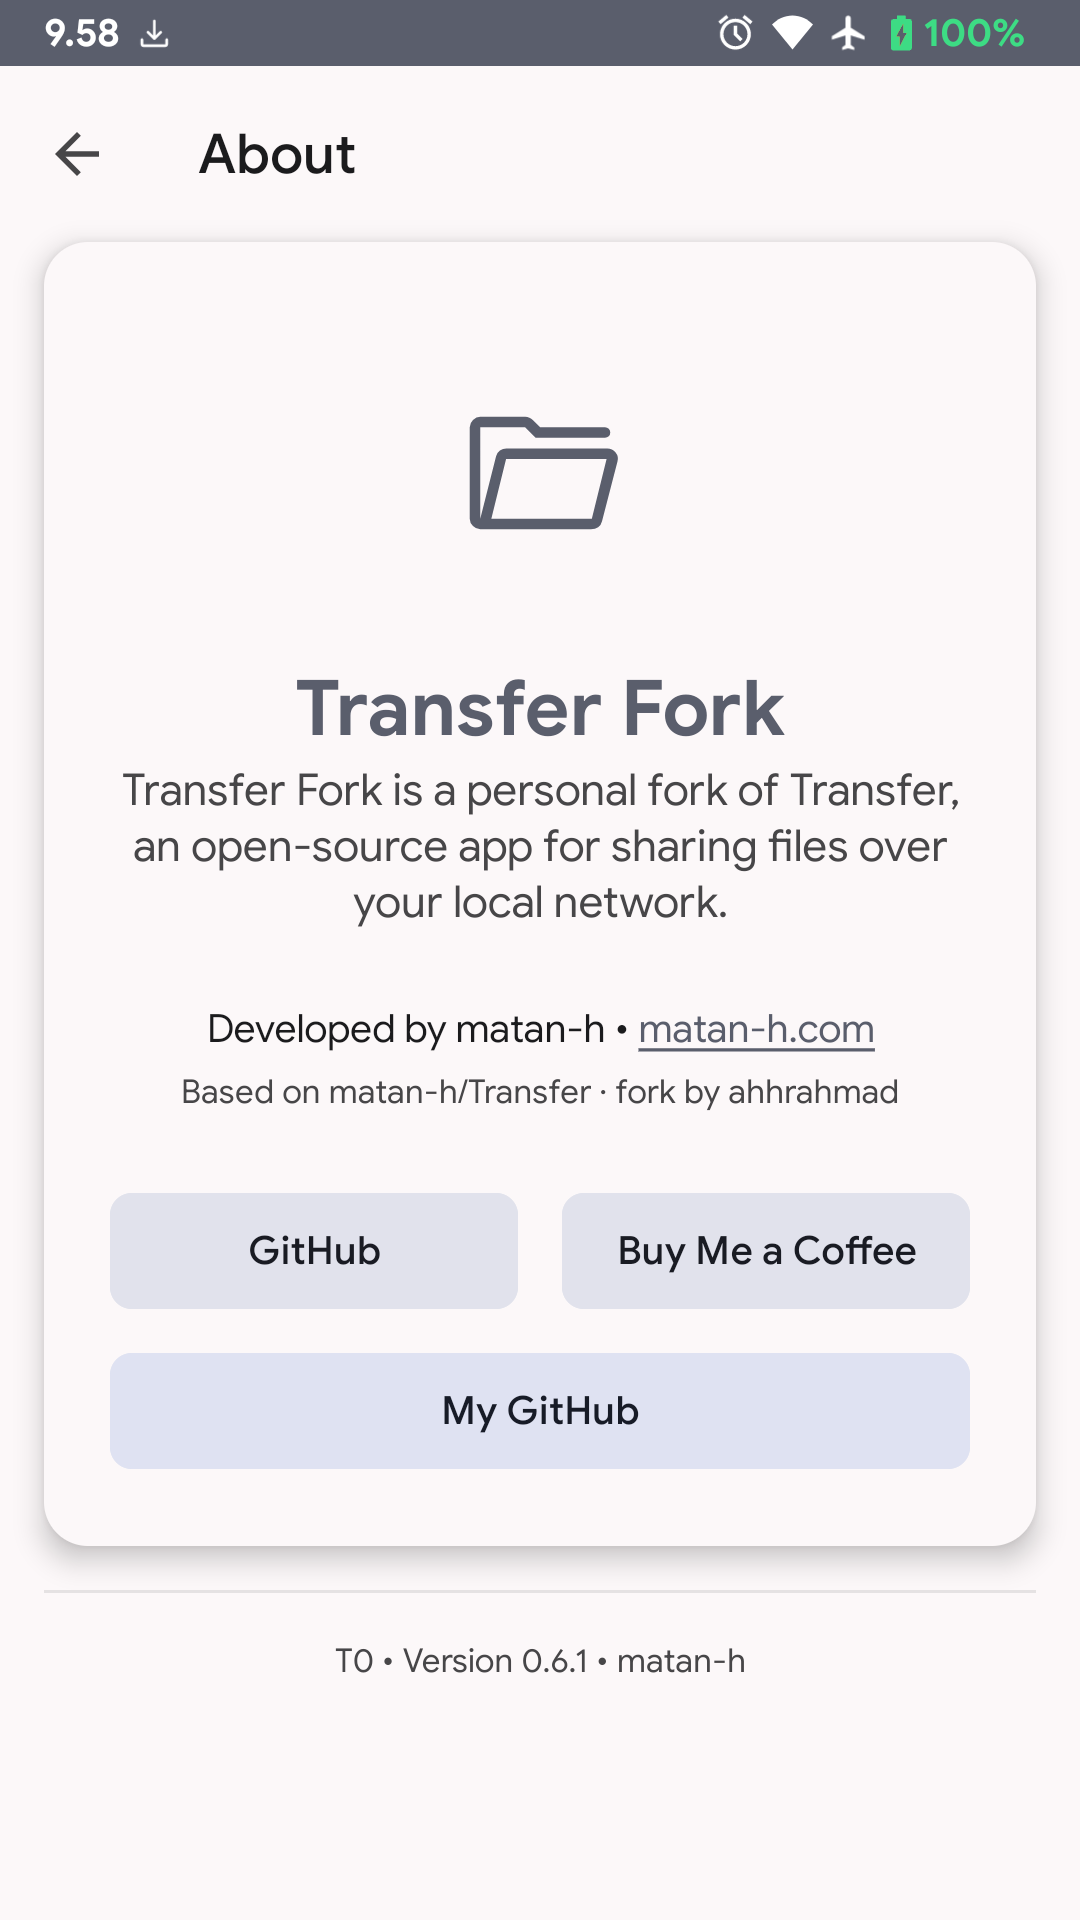
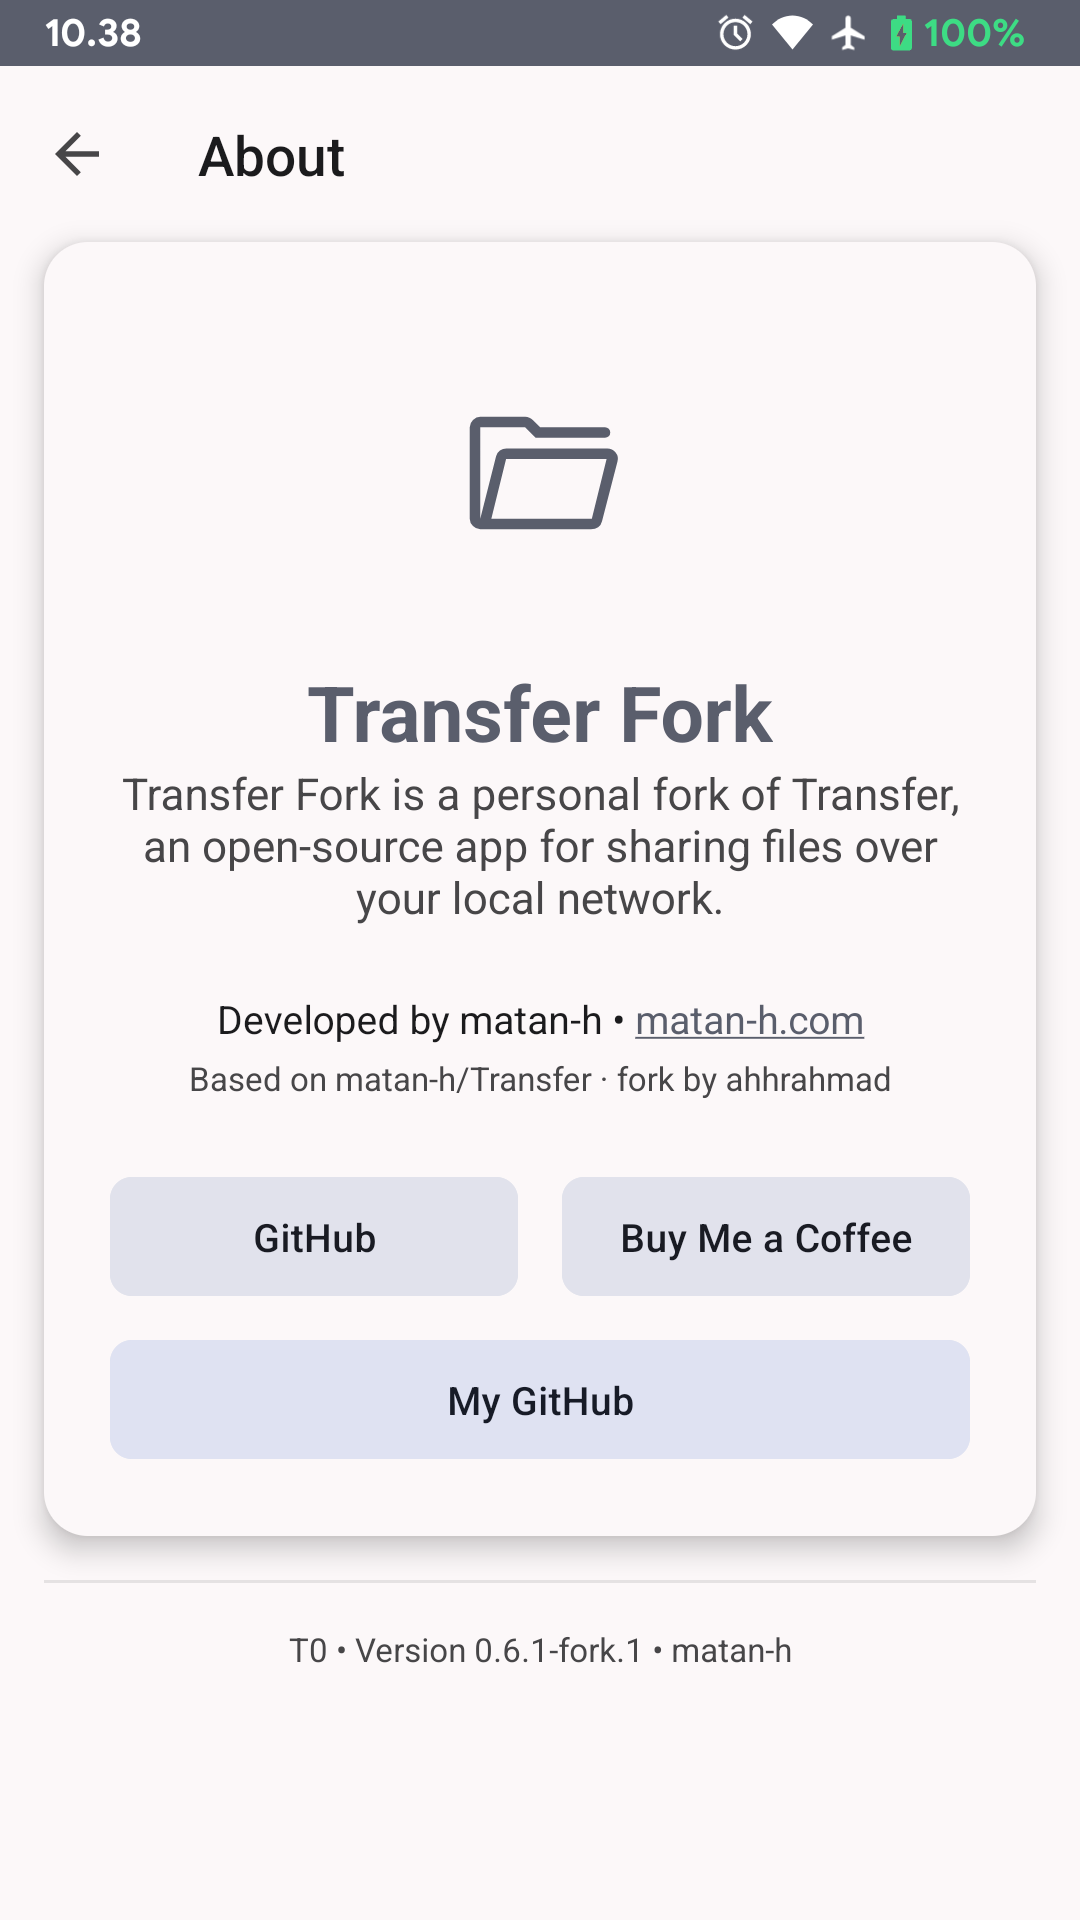
fix: keep fork issues and versioning separate from upstream
- ErrorReport opens the fork's issue form (issues enabled on ahhrahmad/Transfer)
- versionName 0.6.1-fork.1 so it cannot be mistaken for upstream 0.6.1
- README: 'personal' instead of 'private'; note the upstream base v0.6.1
- AppFlowTest: wake/unlock first, accept either the foreground dialog or the
  background notification, and return early on a cached approval; the old
  code failed with 'ALLOW button not found' in both cases
- refresh the About screenshot for the new version string

diff --git a/app/src/androidTest/java/com/transfer/fork/AppFlowTest.kt b/app/src/androidTest/java/com/transfer/fork/AppFlowTest.kt
@@ -43,6 +43,7 @@ import java.io.RandomAccessFile
 import java.net.URLDecoder
 import java.net.URLEncoder
 import java.nio.charset.StandardCharsets
+import java.util.concurrent.CountDownLatch
 import java.util.concurrent.TimeUnit
 import java.util.regex.Pattern
 
@@ -157,10 +158,60 @@ class AppFlowTest {
         // Initialize UI Automator
         val instrumentation = InstrumentationRegistry.getInstrumentation()
         device = UiDevice.getInstance(instrumentation)
+        // A locked screen makes the service post a notification instead of showing the dialog.
+        runCatching { device.wakeUp() }
+        runCatching { device.executeShellCommand("wm dismiss-keyguard") }
     }
 
     private fun addToCreated(filename: String) {
         synchronized(createdFiles) { createdFiles.add(filename) }
+    }
+
+    private fun findAllowButton(): UiObject2? =
+        device.findObject(By.text("Allow"))
+            ?: device.findObject(By.text("ALLOW"))
+            ?: device.findObject(By.text("Izinkan"))
+            ?: device.findObject(By.text("IZINKAN"))
+            ?: device.findObject(By.res("android:id/button1"))
+
+    private fun waitForAllowButton(timeoutMs: Long): UiObject2? {
+        val deadline = System.currentTimeMillis() + timeoutMs
+        while (System.currentTimeMillis() < deadline) {
+            findAllowButton()?.let { return it }
+            Thread.sleep(250)
+        }
+        return null
+    }
+
+    /**
+     * The service shows a dialog when the activity is in the foreground and a
+     * notification otherwise. A cached approval skips both, so also stop waiting
+     * once the request has completed.
+     */
+    private fun approveAccessRequest(response: CountDownLatch) {
+        var allow = waitForAllowButton(10_000)
+
+        if (allow == null && response.count > 0) {
+            runCatching { device.openNotification() }
+            val action = waitForAllowButton(UI_AUTOMATOR_TIMEOUT)
+            if (action != null) {
+                allow = action
+            } else {
+                val notification = device.findObject(By.textContains("Allow access from"))
+                if (notification != null) {
+                    notification.click() // opens MainActivity, which forwards the pending prompt
+                    allow = waitForAllowButton(UI_AUTOMATOR_TIMEOUT)
+                } else {
+                    device.pressBack()
+                }
+            }
+        }
+
+        if (allow != null) allow.click()
+        Assert.assertTrue(
+            "No approval prompt (dialog or notification) and the access request did not complete",
+            response.await(10, TimeUnit.SECONDS)
+        )
     }
 
     private fun uploadFileHttp(
@@ -318,22 +369,19 @@ class AppFlowTest {
             .get()
             .build()
 
+        val responseLatch = CountDownLatch(1)
         client.newCall(allow_request).enqueue(object : Callback {
             override fun onFailure(call: Call, e: IOException) {
-                // it'll almost certainly timeout—ignore
+                responseLatch.countDown()
             }
 
             override fun onResponse(call: Call, response: Response) {
                 response.close()
+                responseLatch.countDown()
             }
         })
 
-
-        val allowButton = device.wait(Until.findObject(By.text("ALLOW")), UI_AUTOMATOR_TIMEOUT)
-            ?: device.wait(Until.findObject(By.text("IZINKAN")), UI_AUTOMATOR_TIMEOUT)
-            ?: device.wait(Until.findObject(By.res("android:id/button1")), UI_AUTOMATOR_TIMEOUT)
-        Assert.assertNotNull("ALLOW button not found", allowButton)
-        allowButton.click()
+        approveAccessRequest(responseLatch)
 
 
         // --- Step 3: Upload a file via HTTP ---

diff --git a/app/src/main/java/com/transfer/fork/util/ErrorReport.kt b/app/src/main/java/com/transfer/fork/util/ErrorReport.kt
@@ -8,7 +8,7 @@ import androidx.core.net.toUri
 import com.transfer.fork.BuildConfig
 
 class ErrorReport {
-    val baseUri = "https://github.com/matan-h/Transfer/issues/new?template=bug_report.yml&".toUri();
+    val baseUri = "https://github.com/ahhrahmad/Transfer/issues/new?template=bug_report.yml&".toUri();
 
     @Suppress("SameParameterValue")
     private fun gen_url(deviceModel: String, androidVersion: String, appVersion: String, additionalText: String): String {

diff --git a/README.md b/README.md
@@ -4,8 +4,9 @@
 >
 > Original project: <https://github.com/matan-h/Transfer>
 > Original author: [matan-h](https://github.com/matan-h) (`© matan-h`, MIT license — see `LICENSE`)
+> Based on upstream release v0.6.1.
 >
-> This is a private, non-commercial fork made for learning and personal use. It is **not affiliated
+> This is a personal, non-commercial fork made for learning and personal use. It is **not affiliated
 > with, endorsed by, or supported by matan-h**. It is not published to the Play Store or IzzyOnDroid;
 > the only links below are the build-from-source instructions and a link to the original releases.
 >
